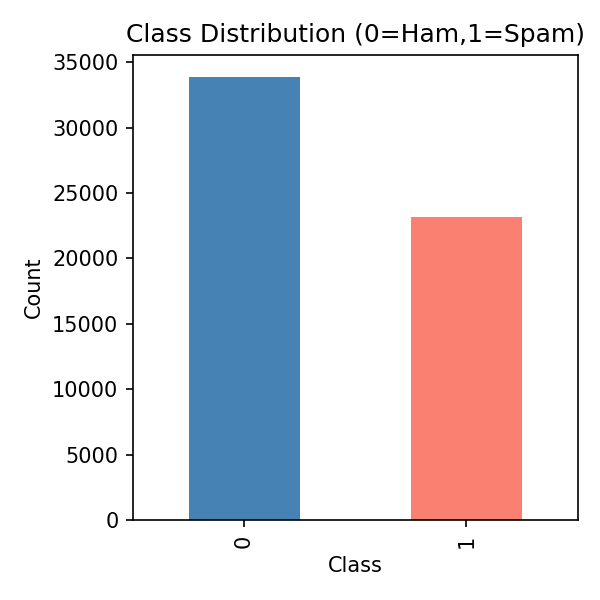
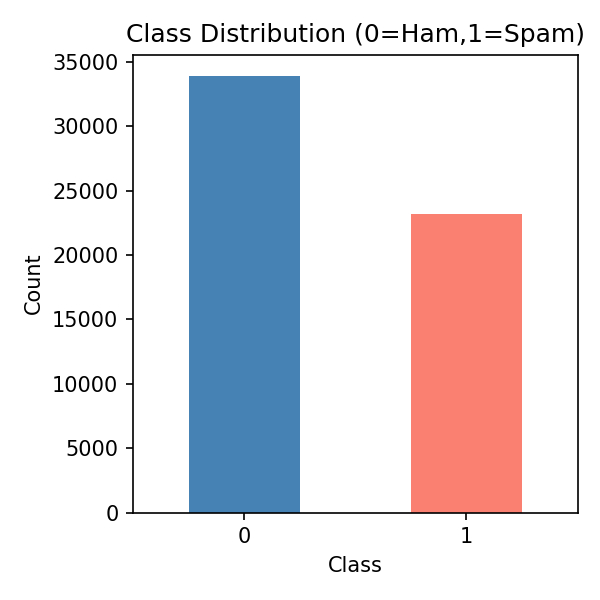
Add better eda graphs

diff --git a/ai4cyber/eda.py b/ai4cyber/eda.py
@@ -8,9 +8,22 @@ from typing import Tuple
 
 import matplotlib.pyplot as plt
 import pandas as pd
+import seaborn as sns
 from sklearn.feature_extraction.text import CountVectorizer
+from wordcloud import WordCloud
 
-from data_processing import load_spam_dataset, TEXT_COL, TARGET_COL
+from data_processing import load_spam_dataset, TEXT_COL, TARGET_COL, NUMERICAL_COLS
+
+# List of suspicious words often found in spam
+SUSPICIOUS_WORDS = [
+    'free', 'win', 'winner', 'cash', 'prize', 'urgent', 'apply now', 'buy',
+    'subscribe', 'click', 'limited time', 'offer', 'money', 'credit', 'loan',
+    'investment', 'pharmacy', 'viagra', 'sex', 'hot', 'deal', 'now',
+    'guaranteed', 'congratulations', 'won', 'claim', 'unlimited', 'certified',
+    'extra', 'income', 'earn', 'per', 'week', 'work', 'from', 'home', 'opportunity',
+    'exclusive', 'amazing', 'selected', 'special', 'promotion', 'bonus',
+    'not', 'spam', 'unsubscribe', 'opt-out', 'dear', 'friend', '$'
+]
 
 FIG_DIR = Path("reports/data_figures")
 FIG_DIR.mkdir(parents=True, exist_ok=True)
@@ -23,34 +36,41 @@ def class_distribution(df: pd.DataFrame, target_col: str = TARGET_COL):
         df: pandas dataframe with target_col
     """
     counts = df[target_col].value_counts().sort_index()
-    plt.figure(figsize=(4,4))
+    plt.figure(figsize=(4, 4))
     counts.plot(kind="bar", color=["steelblue", "salmon"])
     plt.title("Class Distribution (0=Ham,1=Spam)")
     plt.xlabel("Class")
     plt.ylabel("Count")
+    plt.xticks(rotation=0)
     plt.tight_layout()
     plt.savefig(FIG_DIR / "class_distribution.png", dpi=150)
     plt.close()
 
 
-def message_length_distribution(df: pd.DataFrame, text_col: str = TEXT_COL):
+def word_count_boxplot(df: pd.DataFrame, col: str = "word_count"):
     """
-    Plot and save message length distribution histogram.
+    Plot and save word count boxplot, removing outliers.
     Args:
-        df: pandas dataframe with text_col
+        df: pandas dataframe with word_count column
     """
-    lengths = df[text_col].str.split().apply(len)
-    plt.figure(figsize=(6,4))
-    plt.hist(lengths, bins=50, color="slateblue", alpha=0.7)
-    plt.title("Message Length Distribution (tokens)")
-    plt.xlabel("Length")
-    plt.ylabel("Frequency")
+    # Remove top 1% of outliers for better visualization
+    q = df[col].quantile(0.99)
+    df_filtered = df[df[col] < q]
+    plt.figure(figsize=(6, 4))
+    sns.boxplot(x=df_filtered[col], color="skyblue")
+    plt.title("Message Word Count Distribution")
+    plt.xlabel("Word Count")
     plt.tight_layout()
-    plt.savefig(FIG_DIR / "length_distribution.png", dpi=150)
+    plt.savefig(FIG_DIR / "word_count_boxplot.png", dpi=150)
     plt.close()
 
 
-def top_ngrams(df: pd.DataFrame, n: int = 20, ngram_range: Tuple[int,int]=(1,2), text_col: str = TEXT_COL):
+def top_ngrams(
+    df: pd.DataFrame,
+    n: int = 20,
+    ngram_range: Tuple[int, int] = (1, 2),
+    text_col: str = TEXT_COL,
+):
     """
     Plot and save top n-grams bar chart.
     Args:
@@ -58,7 +78,9 @@ def top_ngrams(df: pd.DataFrame, n: int = 20, ngram_range: Tuple[int,int]=(1,2),
         n: number of top n-grams to display
         ngram_range: n-gram range for CountVectorizer
     """
-    vec = CountVectorizer(stop_words="english", ngram_range=ngram_range, max_features=5000)
+    vec = CountVectorizer(
+        stop_words="english", ngram_range=ngram_range, max_features=5000
+    )
     X = vec.fit_transform(df[text_col])
     freqs = X.sum(axis=0).A1
     vocab = vec.get_feature_names_out()
@@ -66,7 +88,7 @@ def top_ngrams(df: pd.DataFrame, n: int = 20, ngram_range: Tuple[int,int]=(1,2),
     pairs.sort(key=lambda x: x[1], reverse=True)
     top = pairs[:n]
     words, counts = zip(*top)
-    plt.figure(figsize=(8,4))
+    plt.figure(figsize=(8, 4))
     plt.barh(words[::-1], counts[::-1], color="teal")
     plt.title("Top n-grams")
     plt.tight_layout()
@@ -74,11 +96,81 @@ def top_ngrams(df: pd.DataFrame, n: int = 20, ngram_range: Tuple[int,int]=(1,2),
     plt.close()
 
 
-def run_eda(csv_path: str = "data/emails.csv"):
+def suspicious_wordcloud(df: pd.DataFrame, text_col: str = TEXT_COL):
+    """
+    Generate and save a word cloud for the most common suspicious words in all emails.
+    """
+    all_text = " ".join(df[text_col].str.lower())
+    word_counts = {word: all_text.count(word) for word in SUSPICIOUS_WORDS}
+    word_counts = {word: count for word, count in word_counts.items() if count > 0}
+
+    if not word_counts:
+        print("No suspicious words found to generate a word cloud.")
+        return
+
+    wordcloud = WordCloud(
+        width=800,
+        height=400,
+        background_color="white",
+        colormap="Reds",
+    ).generate_from_frequencies(word_counts)
+
+    plt.figure(figsize=(10, 5))
+    plt.imshow(wordcloud, interpolation="bilinear")
+    plt.axis("off")
+    plt.title("Most Frequent Suspicious Words in All Emails")
+    plt.tight_layout()
+    plt.savefig(FIG_DIR / "suspicious_wordcloud.png", dpi=150)
+    plt.close()
+
+
+def correlation_heatmap(df: pd.DataFrame):
+    """
+    Plot and save a heatmap of feature correlations.
+    """
+    plt.figure(figsize=(8, 6))
+    sns.heatmap(
+        df[NUMERICAL_COLS + [TARGET_COL]].corr(),
+        annot=True,
+        fmt=".2f",
+        cmap="viridis",
+    )
+    plt.title("Feature Correlation Heatmap")
+    plt.tight_layout()
+    plt.savefig(FIG_DIR / "correlation_heatmap.png", dpi=150)
+    plt.close()
+
+
+def suspicious_word_distribution(df: pd.DataFrame, target_col: str = TARGET_COL):
+    """
+    Plot distribution of suspicious word count for spam vs ham.
+    """
+    plt.figure(figsize=(8, 5))
+    sns.violinplot(
+        x=target_col, y="suspicious_word_count", data=df, palette=["lightblue", "salmon"]
+    )
+    plt.title("Distribution of Suspicious Word Count")
+    plt.xlabel("Class (0=Ham, 1=Spam)")
+    plt.ylabel("Suspicious Word Count")
+    plt.xticks([0, 1], ["Ham", "Spam"])
+
+    # Limit y-axis to the 99th percentile to exclude extreme outliers
+    ylim_max = df["suspicious_word_count"].quantile(0.99)
+    plt.ylim(0, ylim_max)
+
+    plt.tight_layout()
+    plt.savefig(FIG_DIR / "suspicious_word_distribution.png", dpi=150)
+    plt.close()
+
+
+def run_eda(csv_path: str = "data/spam_featured.csv"):
     df = load_spam_dataset(csv_path)
     class_distribution(df)
-    message_length_distribution(df)
+    word_count_boxplot(df)
     top_ngrams(df)
+    suspicious_wordcloud(df)
+    correlation_heatmap(df)
+    suspicious_word_distribution(df)
     print(f"EDA figures saved to {FIG_DIR}")
 
 
